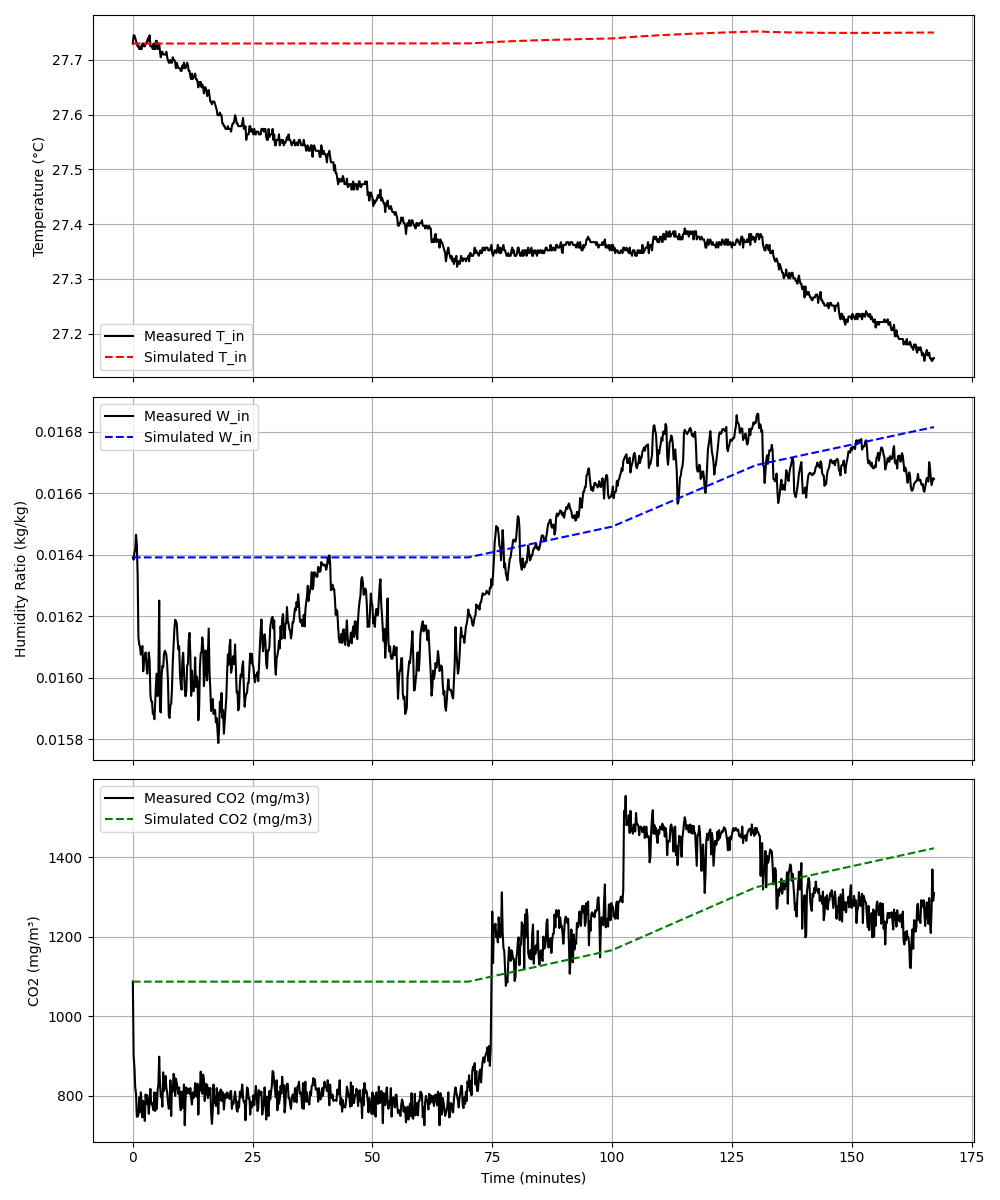
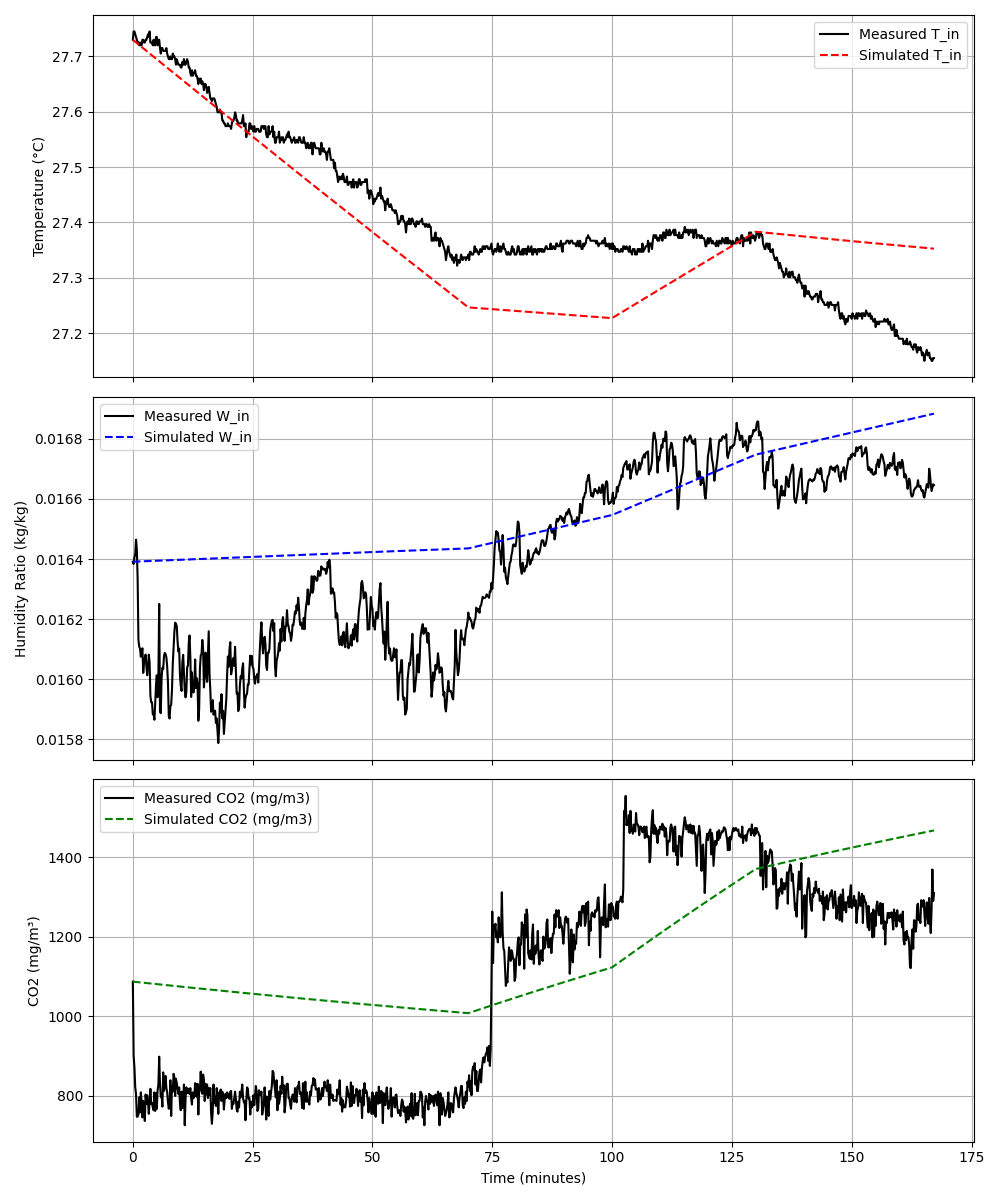
feat: incorporate ACH and initial mass temperature into system identification optimization

diff --git a/Experiment/system_identification.py b/Experiment/system_identification.py
@@ -58,7 +58,7 @@ def load_and_preprocess(filepath):
 
 # ── Simulation Functions ────────────────────────────────────────────────
 def simulate_mass_balance(params, df, dt=10.0):
-    V_room, M_air = params
+    V_room, M_air, ACH = params
     
     N = len(df)
     C_in = np.zeros(N)
@@ -71,27 +71,31 @@ def simulate_mass_balance(params, df, dt=10.0):
     V_s = df['supply_v'].values
     C_s = df['supply_c_mg'].values
     W_s = df['supply_w'].values
+    C_out = df['outdoor_c_mg'].values
+    W_out = df['outdoor_w'].values
+    
+    V_inf = (ACH * V_room) / 3600.0
     
     for i in range(N - 1):
-        # CO2 dynamics
-        dC_in = (occ[i] * G_CO2_OCC * 1e6 + V_s[i] * (C_s[i] - C_in[i])) / V_room
+        # CO2 dynamics with infiltration
+        dC_in = (occ[i] * G_CO2_OCC * 1e6 + V_inf * (C_out[i] - C_in[i]) + V_s[i] * (C_s[i] - C_in[i])) / V_room
         C_in[i+1] = C_in[i] + dC_in * dt
         
-        # Humidity dynamics
-        dW_in = (occ[i] * G_W_OCC + RHO_AIR * V_s[i] * (W_s[i] - W_in[i])) / M_air
+        # Humidity dynamics with infiltration
+        dW_in = (occ[i] * G_W_OCC + RHO_AIR * V_inf * (W_out[i] - W_in[i]) + RHO_AIR * V_s[i] * (W_s[i] - W_in[i])) / M_air
         W_in[i+1] = W_in[i] + dW_in * dt
         
     return C_in, W_in
 
-def simulate_thermal(params, V_room, M_air, df, dt=10.0):
-    C_air, C_mass, R_ext, R_int = params
+def simulate_thermal(params, V_room, M_air, ACH, df, dt=10.0):
+    C_air, C_mass, R_ext, R_int, T_m0 = params
     
     N = len(df)
     T_in = np.zeros(N)
     T_m = np.zeros(N)
     
     T_in[0] = df['indoor_t'].iloc[0]
-    T_m[0] = df['indoor_t'].iloc[0] # Assume mass starts at same temp
+    T_m[0] = T_m0 # Optimize initial mass temperature
     
     occ = df['n_occ'].values
     V_s = df['supply_v'].values
@@ -99,13 +103,16 @@ def simulate_thermal(params, V_room, M_air, df, dt=10.0):
     T_out = df['outdoor_t'].values
     Q_equip = 0.0 # From user instruction
     
+    V_inf = (ACH * V_room) / 3600.0
+    
     for i in range(N - 1):
         q_env = (T_out[i] - T_in[i]) / R_ext
         q_mass = (T_m[i] - T_in[i]) / R_int
         q_int = occ[i] * Q_PERSON + Q_equip
         q_s = RHO_AIR * V_s[i] * CP_AIR * (T_s[i] - T_in[i])
+        q_inf = RHO_AIR * V_inf * CP_AIR * (T_out[i] - T_in[i])
         
-        dT_in = (q_env + q_mass + q_int + q_s) / C_air
+        dT_in = (q_env + q_mass + q_int + q_s + q_inf) / C_air
         dT_m = (T_in[i] - T_m[i]) / (C_mass * R_int)
         
         T_in[i+1] = T_in[i] + dT_in * dt
@@ -128,9 +135,9 @@ def objective_phase_a(params, df, dt):
     
     return (mse_c / var_c) + (mse_w / var_w)
 
-def objective_phase_b(scaled_params, V_room, M_air, df, dt, scale_factors):
+def objective_phase_b(scaled_params, V_room, M_air, ACH, df, dt, scale_factors):
     params = scaled_params * scale_factors
-    T_in_sim, _ = simulate_thermal(params, V_room, M_air, df, dt)
+    T_in_sim, _ = simulate_thermal(params, V_room, M_air, ACH, df, dt)
     mse_t = np.mean((T_in_sim - df['indoor_t'].values)**2)
     return mse_t
 
@@ -139,49 +146,56 @@ def run_identification(filepath):
     df = load_and_preprocess(filepath)
     dt = 10.0 # 10s timestep as specified by user
     
-    print("--- Phase A: Estimating V_room and M_air ---")
+    print("--- Phase A: Estimating V_room, M_air, ACH ---")
     
-    # Scale factors: typical V_room = 100, M_air = 100
-    scale_a = np.array([100.0, 100.0])
-    init_scaled_a = np.array([1.0, 1.0])
-    bounds_scaled_a = [(10.0/100.0, 1000.0/100.0), (10.0/100.0, 5000.0/100.0)]
+    # Scale factors: typical V_room = 100, M_air = 120, ACH = 0.5
+    scale_a = np.array([100.0, 120.0, 1.0])
+    init_scaled_a = np.array([1.0, 1.0, 0.5])
+    bounds_scaled_a = [
+        (20.0/scale_a[0], 500.0/scale_a[0]), 
+        (24.0/scale_a[1], 1000.0/scale_a[1]),
+        (0.0/scale_a[2], 5.0/scale_a[2])
+    ]
     
     def obj_a_scaled(scaled_params):
         params = scaled_params * scale_a
         return objective_phase_a(params, df, dt)
         
     res_a = minimize(obj_a_scaled, init_scaled_a, bounds=bounds_scaled_a, method='L-BFGS-B')
-    V_room_opt, M_air_opt = res_a.x * scale_a
+    V_room_opt, M_air_opt, ACH_opt = res_a.x * scale_a
     print(f"Optimization Phase A Success: {res_a.success}")
     print(f"Identified V_room: {V_room_opt:.2f} m^3")
     print(f"Identified M_air:  {M_air_opt:.2f} kg (Theoretical ρ*V: {V_room_opt * RHO_AIR:.2f} kg)")
+    print(f"Identified ACH:    {ACH_opt:.3f} 1/h")
     
-    print("\n--- Phase B: Estimating C_air, C_mass, R_ext, R_int ---")
-    # Scale factors: C_air = 100,000, C_mass = 1,000,000, R_ext = 0.1, R_int = 0.01
-    scale_b = np.array([100000.0, 1000000.0, 0.1, 0.01])
-    init_scaled_b = np.array([1.0, 1.0, 1.0, 1.0])
+    print("\n--- Phase B: Estimating C_air, C_mass, R_ext, R_int, T_m0 ---")
+    # Scale factors: C_air = 100,000, C_mass = 4,000,000, R_ext = 0.01, R_int = 0.005, T_m0 = 25
+    scale_b = np.array([100000.0, 4000000.0, 0.01, 0.005, 25.0])
+    init_scaled_b = np.array([1.0, 1.0, 1.0, 1.0, df['indoor_t'].iloc[0] / 25.0])
     bounds_scaled_b = [
-        (1000.0/scale_b[0], 1e7/scale_b[0]),     # C_air
-        (10000.0/scale_b[1], 5e7/scale_b[1]),    # C_mass
-        (0.0001/scale_b[2], 5.0/scale_b[2]),     # R_ext
-        (0.0001/scale_b[3], 1.0/scale_b[3])      # R_int
+        (10000.0/scale_b[0], 1e6/scale_b[0]),     # C_air
+        (100000.0/scale_b[1], 2e7/scale_b[1]),    # C_mass
+        (0.0001/scale_b[2], 5.0/scale_b[2]),      # R_ext
+        (0.0001/scale_b[3], 1.0/scale_b[3]),      # R_int
+        (15.0/scale_b[4], 35.0/scale_b[4])        # T_m0 (between 15C and 35C)
     ]
     
     def obj_b_scaled(scaled_params):
-        return objective_phase_b(scaled_params, V_room_opt, M_air_opt, df, dt, scale_b)
+        return objective_phase_b(scaled_params, V_room_opt, M_air_opt, ACH_opt, df, dt, scale_b)
         
     res_b = minimize(obj_b_scaled, init_scaled_b, bounds=bounds_scaled_b, method='L-BFGS-B')
-    C_air_opt, C_mass_opt, R_ext_opt, R_int_opt = res_b.x * scale_b
+    C_air_opt, C_mass_opt, R_ext_opt, R_int_opt, T_m0_opt = res_b.x * scale_b
     
     print(f"Optimization Phase B Success: {res_b.success}")
     print(f"Identified C_air:  {C_air_opt:.2f} J/K")
     print(f"Identified C_mass: {C_mass_opt:.2f} J/K")
     print(f"Identified R_ext:  {R_ext_opt:.5f} K/W")
     print(f"Identified R_int:  {R_int_opt:.5f} K/W")
+    print(f"Identified T_m0:   {T_m0_opt:.2f} °C")
     
     # ── Simulate with optimal parameters for plotting ──
-    C_sim, W_sim = simulate_mass_balance([V_room_opt, M_air_opt], df, dt)
-    T_sim, Tm_sim = simulate_thermal([C_air_opt, C_mass_opt, R_ext_opt, R_int_opt], V_room_opt, M_air_opt, df, dt)
+    C_sim, W_sim = simulate_mass_balance([V_room_opt, M_air_opt, ACH_opt], df, dt)
+    T_sim, Tm_sim = simulate_thermal([C_air_opt, C_mass_opt, R_ext_opt, R_int_opt, T_m0_opt], V_room_opt, M_air_opt, ACH_opt, df, dt)
     
     # Create plots
     fig, axs = plt.subplots(3, 1, figsize=(10, 12), sharex=True)
